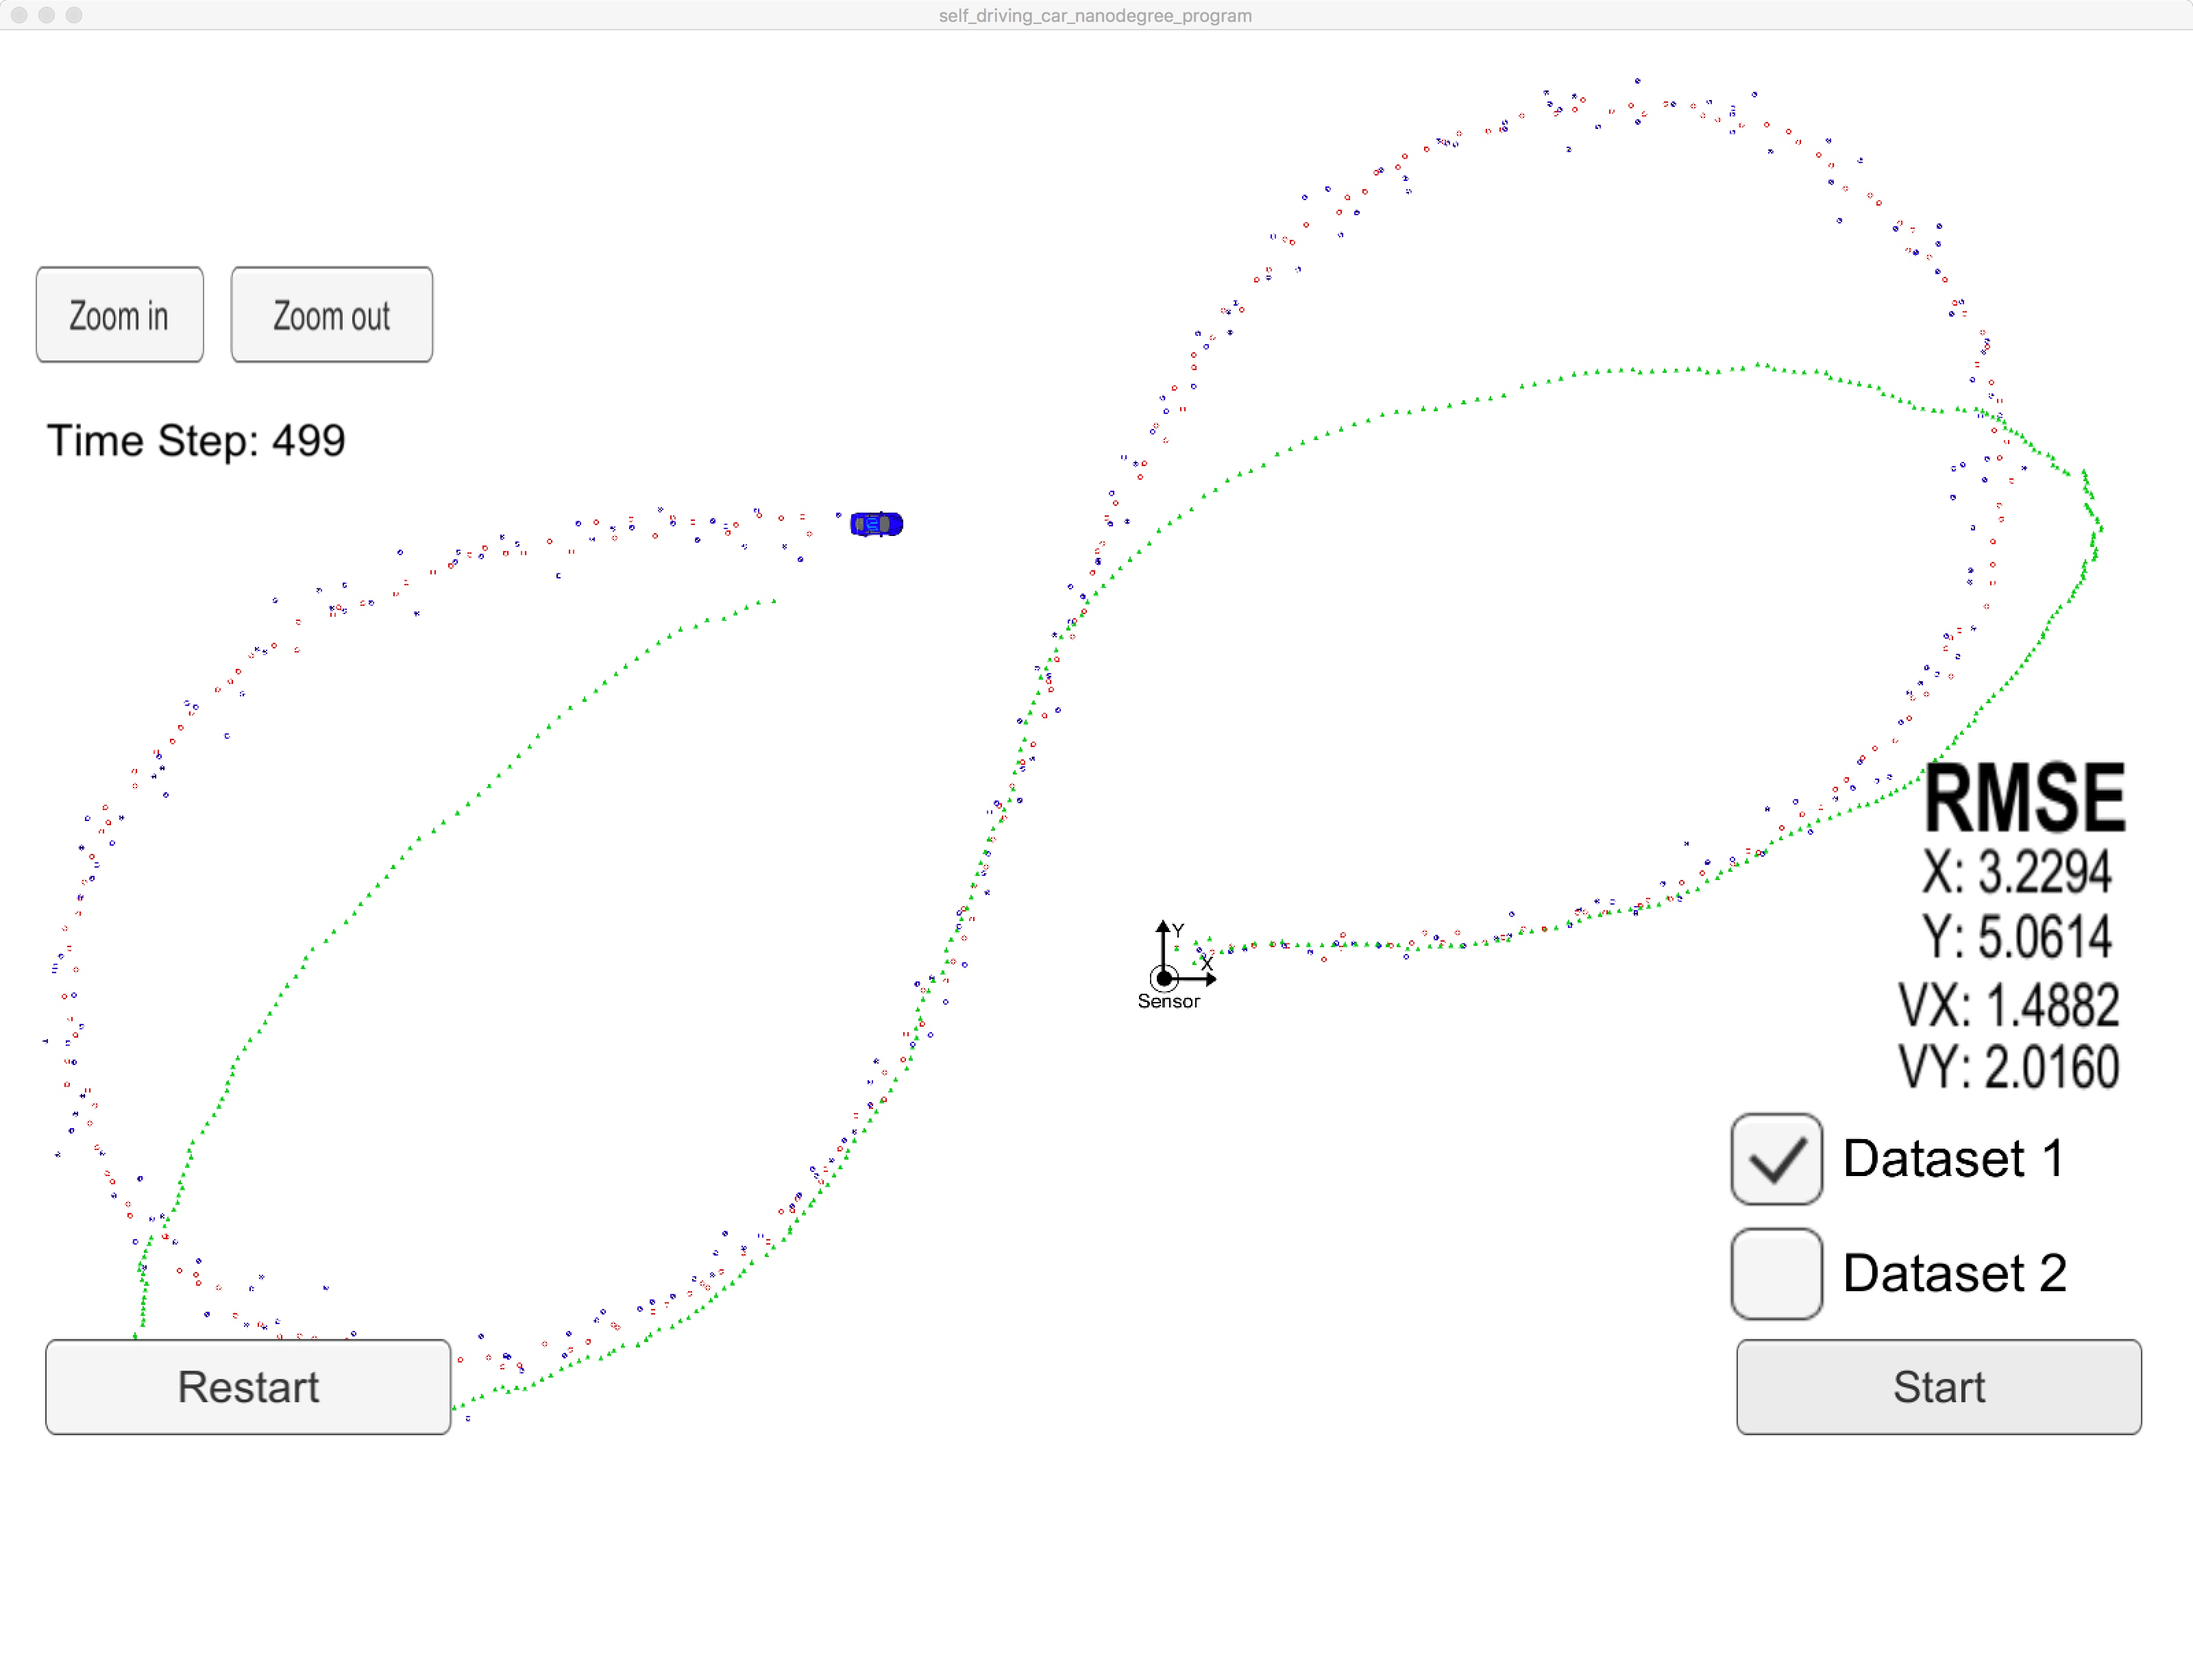
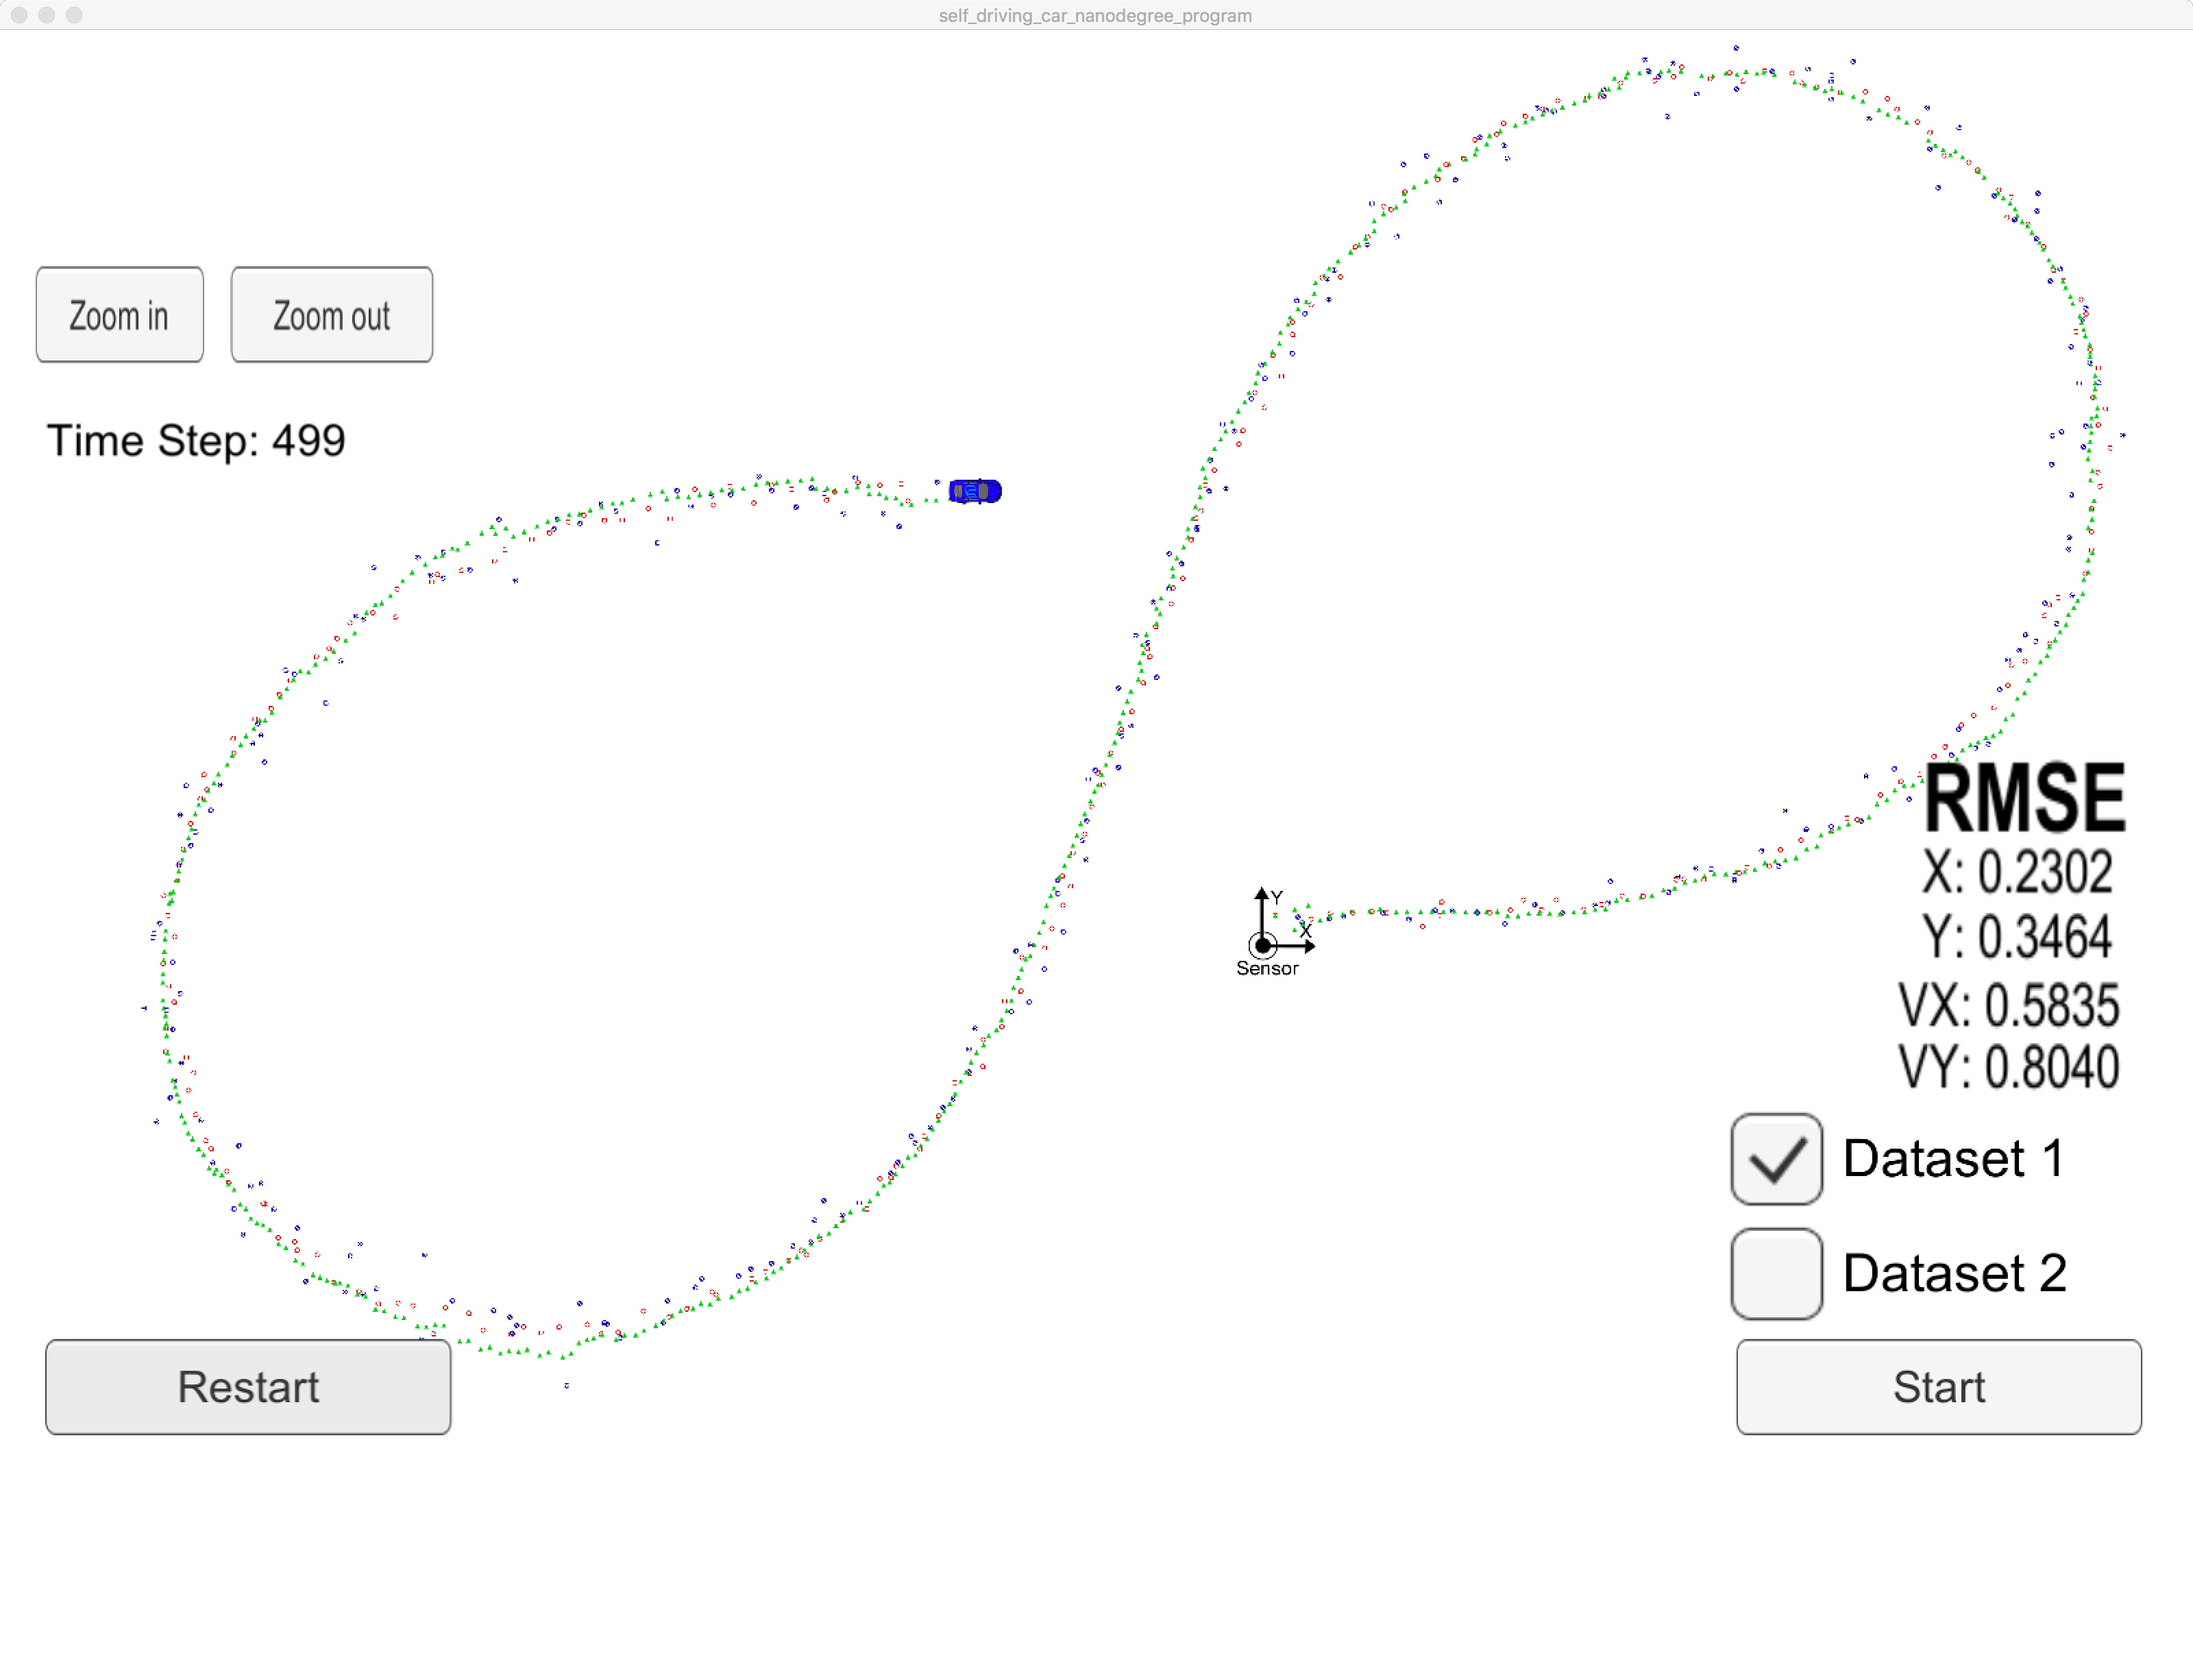
Code Review Updates

diff --git a/src/FusionEKF.cpp b/src/FusionEKF.cpp
@@ -43,7 +43,7 @@ FusionEKF::FusionEKF() {
    */
   
   //initialize state matrix with zeros
-  //x_ << 0, 0, 0, 0;
+  x_ << 0, 0, 0, 0;
   
   //measurment matrix for laser
   H_laser_ << 1, 0, 0, 0,
@@ -83,11 +83,12 @@ void FusionEKF::ProcessMeasurement(const MeasurementPackage &measurement_pack) {
     
     cout << "EKF: " << endl;
     
-    // Initialize measurement covariance
+    // Initialize measurement covariance and assign to ekf_
     P_ << 1, 0, 0, 0,
           0, 1, 0, 0,
           0, 0, 1000, 0,
           0, 0, 0, 1000;
+    
     ekf_.P_ = P_;
 
     if (measurement_pack.sensor_type_ == MeasurementPackage::RADAR) {
@@ -105,6 +106,7 @@ void FusionEKF::ProcessMeasurement(const MeasurementPackage &measurement_pack) {
       ekf_.x_ << px, py, vx, vy;
       previous_timestamp_ = measurement_pack.timestamp_;
       is_initialized_ = true;
+      
       return;
     }
     
@@ -120,11 +122,13 @@ void FusionEKF::ProcessMeasurement(const MeasurementPackage &measurement_pack) {
       
       previous_timestamp_ = measurement_pack.timestamp_;
       is_initialized_ = true;
+      
       return;
     }
 
     // done initializing, no need to predict or update
     is_initialized_ = true;
+    
     return;
   }
 
@@ -159,6 +163,7 @@ void FusionEKF::ProcessMeasurement(const MeasurementPackage &measurement_pack) {
   c_3x, 0, dt_2*noise_ax, 0,
   0, c_3y, 0, dt_2*noise_ay;
 
+  //Predict the next position and velocity state
   ekf_.Predict();
 
   /*****************************************************************************
@@ -170,8 +175,13 @@ void FusionEKF::ProcessMeasurement(const MeasurementPackage &measurement_pack) {
      DONE: * Use the sensor type to perform the update step.
      DONE: * Update the state and covariance matrices.
    */
-//*
-  if (measurement_pack.sensor_type_ == MeasurementPackage::RADAR) {
+
+  // Booleans for whether to use laser or radar or both in updates
+  const bool laser = 1;
+  const bool radar = 1;
+  
+  //Check if measurement is radar and radar is used for updates
+  if (measurement_pack.sensor_type_ == MeasurementPackage::RADAR && radar==1) {
     // Radar updates
     // Create Jacobian matrix for RADAR update
     Hj_ = tools.CalculateJacobian(ekf_.x_);
@@ -180,15 +190,16 @@ void FusionEKF::ProcessMeasurement(const MeasurementPackage &measurement_pack) {
     ekf_.UpdateEKF(measurement_pack.raw_measurements_);
   
   }
-//*/
-  if (measurement_pack.sensor_type_ == MeasurementPackage::LASER){
+
+  //Check if measurement is laser and laser is used for updates
+  if (measurement_pack.sensor_type_ == MeasurementPackage::LASER && laser==1) {
     // Laser updates
     ekf_.H_ = H_laser_;
     ekf_.R_ = R_laser_;
     ekf_.Update(measurement_pack.raw_measurements_);
     
   }
-  
+
   // print the output
   cout << "x_ = " << ekf_.x_ << endl;
   cout << "P_ = " << ekf_.P_ << endl;

diff --git a/src/kalman_filter.cpp b/src/kalman_filter.cpp
@@ -30,7 +30,13 @@ void KalmanFilter::Predict() {
   P_ = F_ * P_ * Ft + Q_;
 }
 
+void KalmanFilter::NormalizeAngle(double& phi){
+  //Normalize phi between -pi and pi
+  phi = atan2(sin(phi), cos(phi));
+}
+
 void KalmanFilter::Estimator(const VectorXd& y){
+  
   //Performs the common matrix algebra for both the EKF and KF
   MatrixXd PHt = P_ * H_.transpose();
   MatrixXd S = H_ * PHt + R_;
@@ -49,6 +55,8 @@ void KalmanFilter::Update(const VectorXd &z) {
   
   VectorXd z_pred = H_ * x_;
   VectorXd y = z - z_pred;
+  
+  //Call Estimator function to complete the update
   Estimator(y);
 }
 
@@ -83,43 +91,9 @@ void KalmanFilter::UpdateEKF(const VectorXd &z) {
   std::cout << "\n\n Phi = " << y(1) << std::endl;
 
   //Adjust phi value to be between -pi and pi.
-  void NormalizeAngle(double& phi){
-    phi = atan2(sin(phi), cos(phi));
-  }
-  
   NormalizeAngle(y(1));
+  
+  //Call Estimator function to complete the update
   Estimator(y);
-  
-  /* My orginal code for normalizing angle phi. I used the recommended code from the Udacity reviewer instead.
-  if (y(1) > M_PI){
-    while(y(1) > M_PI){
-      y(1) = y(1) - 2*M_PI;
-    }
-    std::cout << "\n\n Phi after reduction = " << y(1) << std::endl;
-  }
-
-  if (y(1) < -M_PI){
-    while(y(1) < -M_PI){
-      y(1) = y(1) + 2*M_PI;
-    }
-    std::cout << "\n\n Phi after increase = " << y(1) << std::endl;
-  }
-  */
-
-  /*
-  //Update precalculations
-  MatrixXd Ht = H_.transpose();
-  MatrixXd S = H_ * P_ * Ht + R_;
-  MatrixXd Si = S.inverse();
-  MatrixXd PHt = P_ * Ht;
-  MatrixXd K = PHt * Si;
-  
-  //new estimate
-  x_ = x_ + (K * y);
-  P_ -= K * H_ * P_;
-  //long x_size = x_.size();
-  //MatrixXd I = MatrixXd::Identity(x_size, x_size);
-  //P_ = (I - K * H_) * P_;
-  */
   
 }

diff --git a/src/kalman_filter.h b/src/kalman_filter.h
@@ -56,6 +56,14 @@ public:
    * Updates the state by using standard Kalman Filter equations
    * @param z The measurement at k+1
    */
+  
+  void NormalizeAngle(double& phi);
+    //Performs nomalization of phi between -pi and pi using atan2
+  
+  void Estimator(const Eigen::VectorXd& y);
+    //Performs the common matrix algebra for both the EKF and KF
+    
+
   void Update(const Eigen::VectorXd &z);
 
   /**

diff --git a/src/tools.cpp b/src/tools.cpp
@@ -67,7 +67,7 @@ MatrixXd Tools::CalculateJacobian(const VectorXd& x_state) {
   //Precalculate parameters
   const double px_2 = px*px;
   const double py_2 = py*py;
-  const double sumsq = px_2+py_2;
+  double sumsq = px_2+py_2;
   const double range = sqrt(sumsq);
   const double range_3 = range*sumsq;
   
